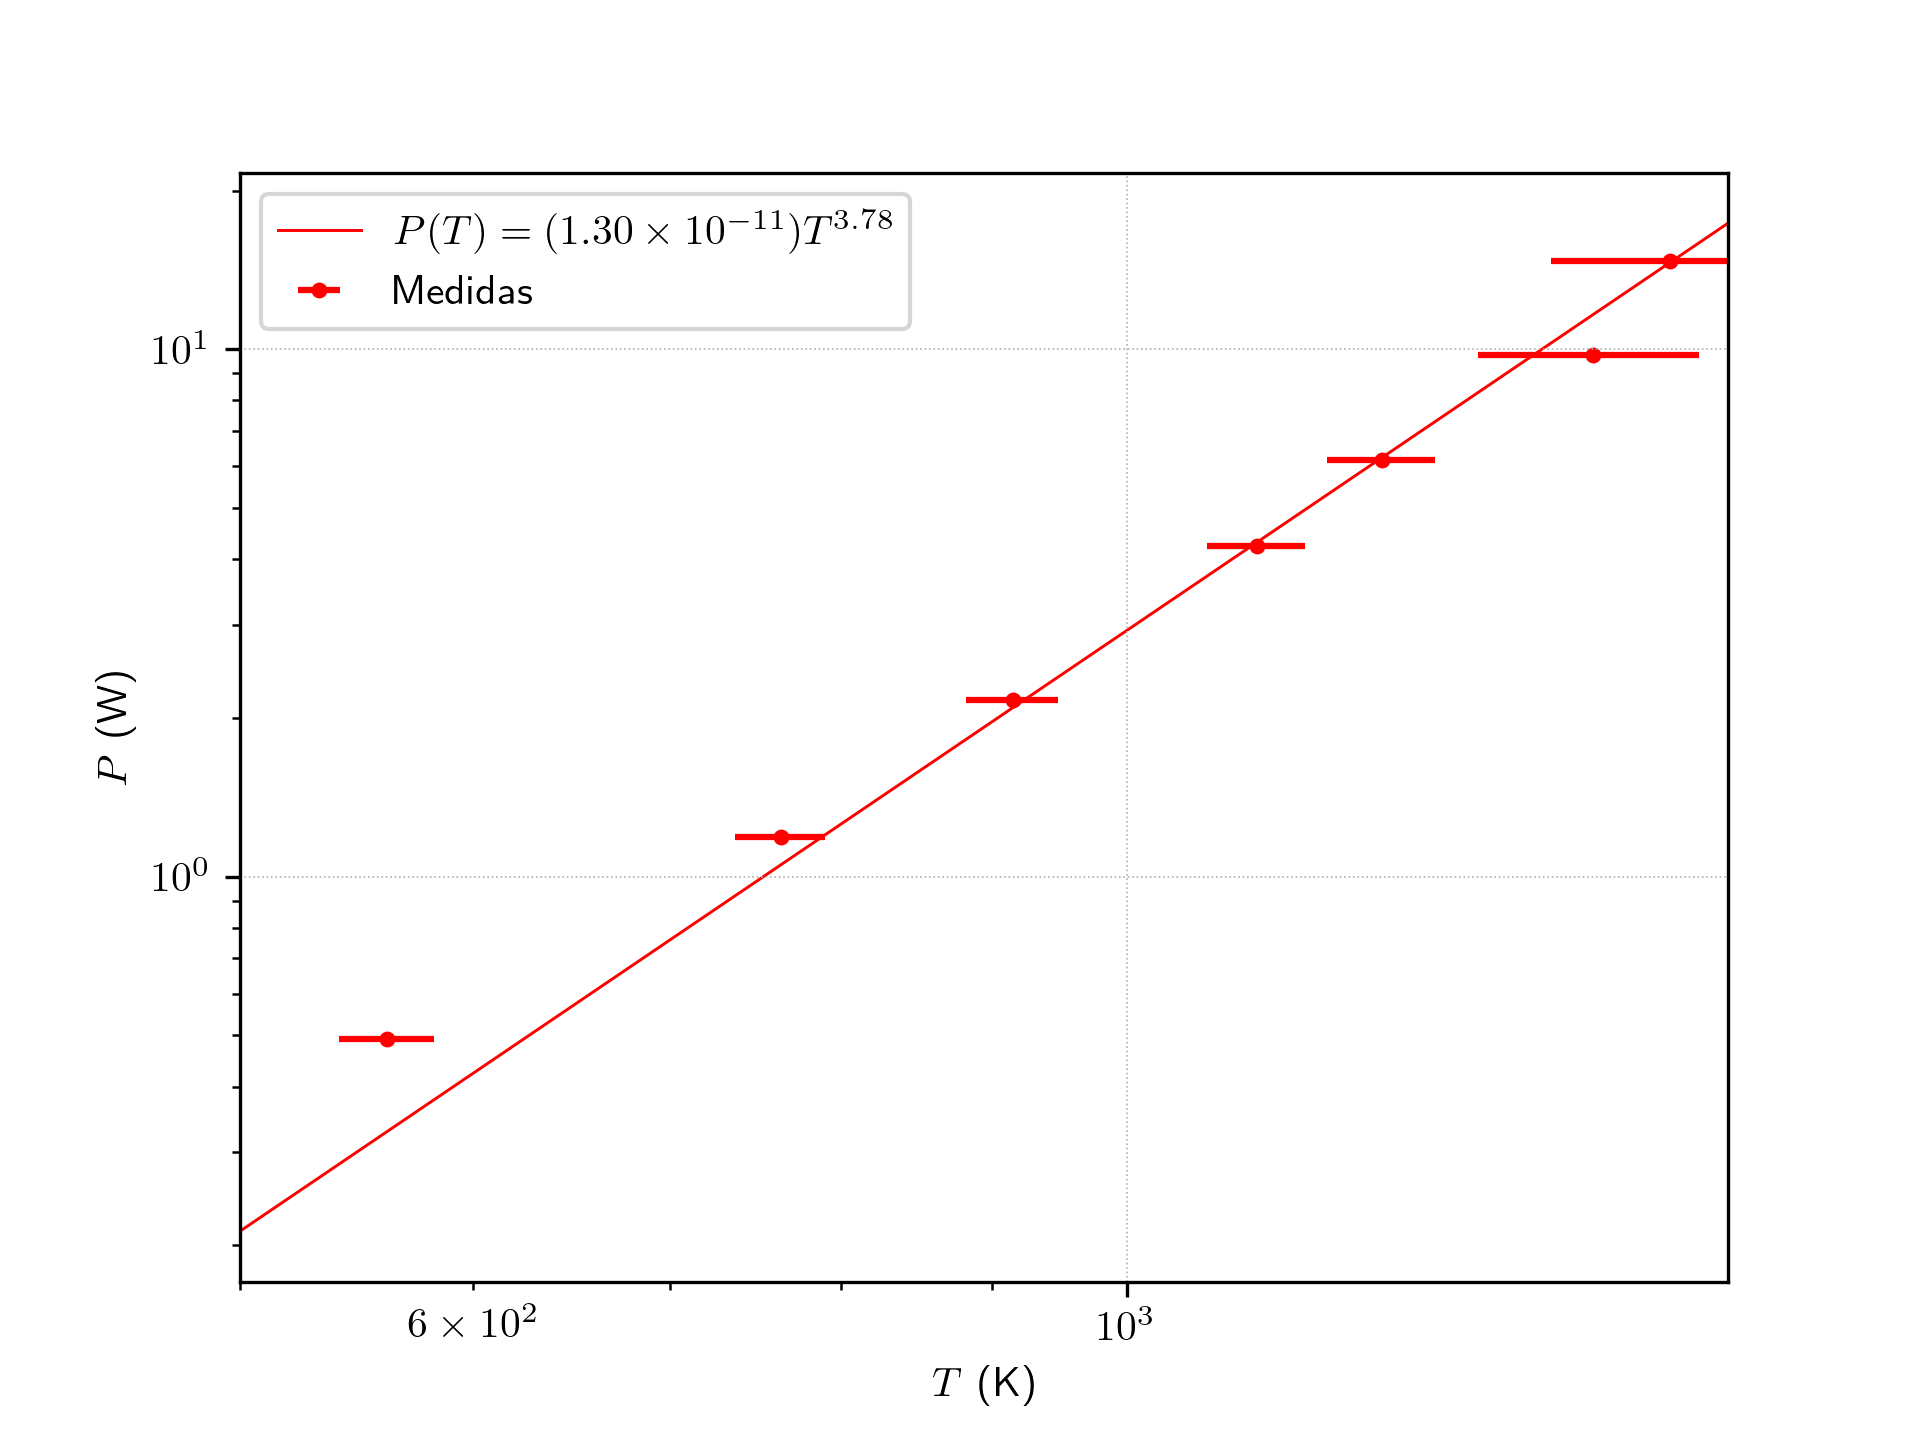
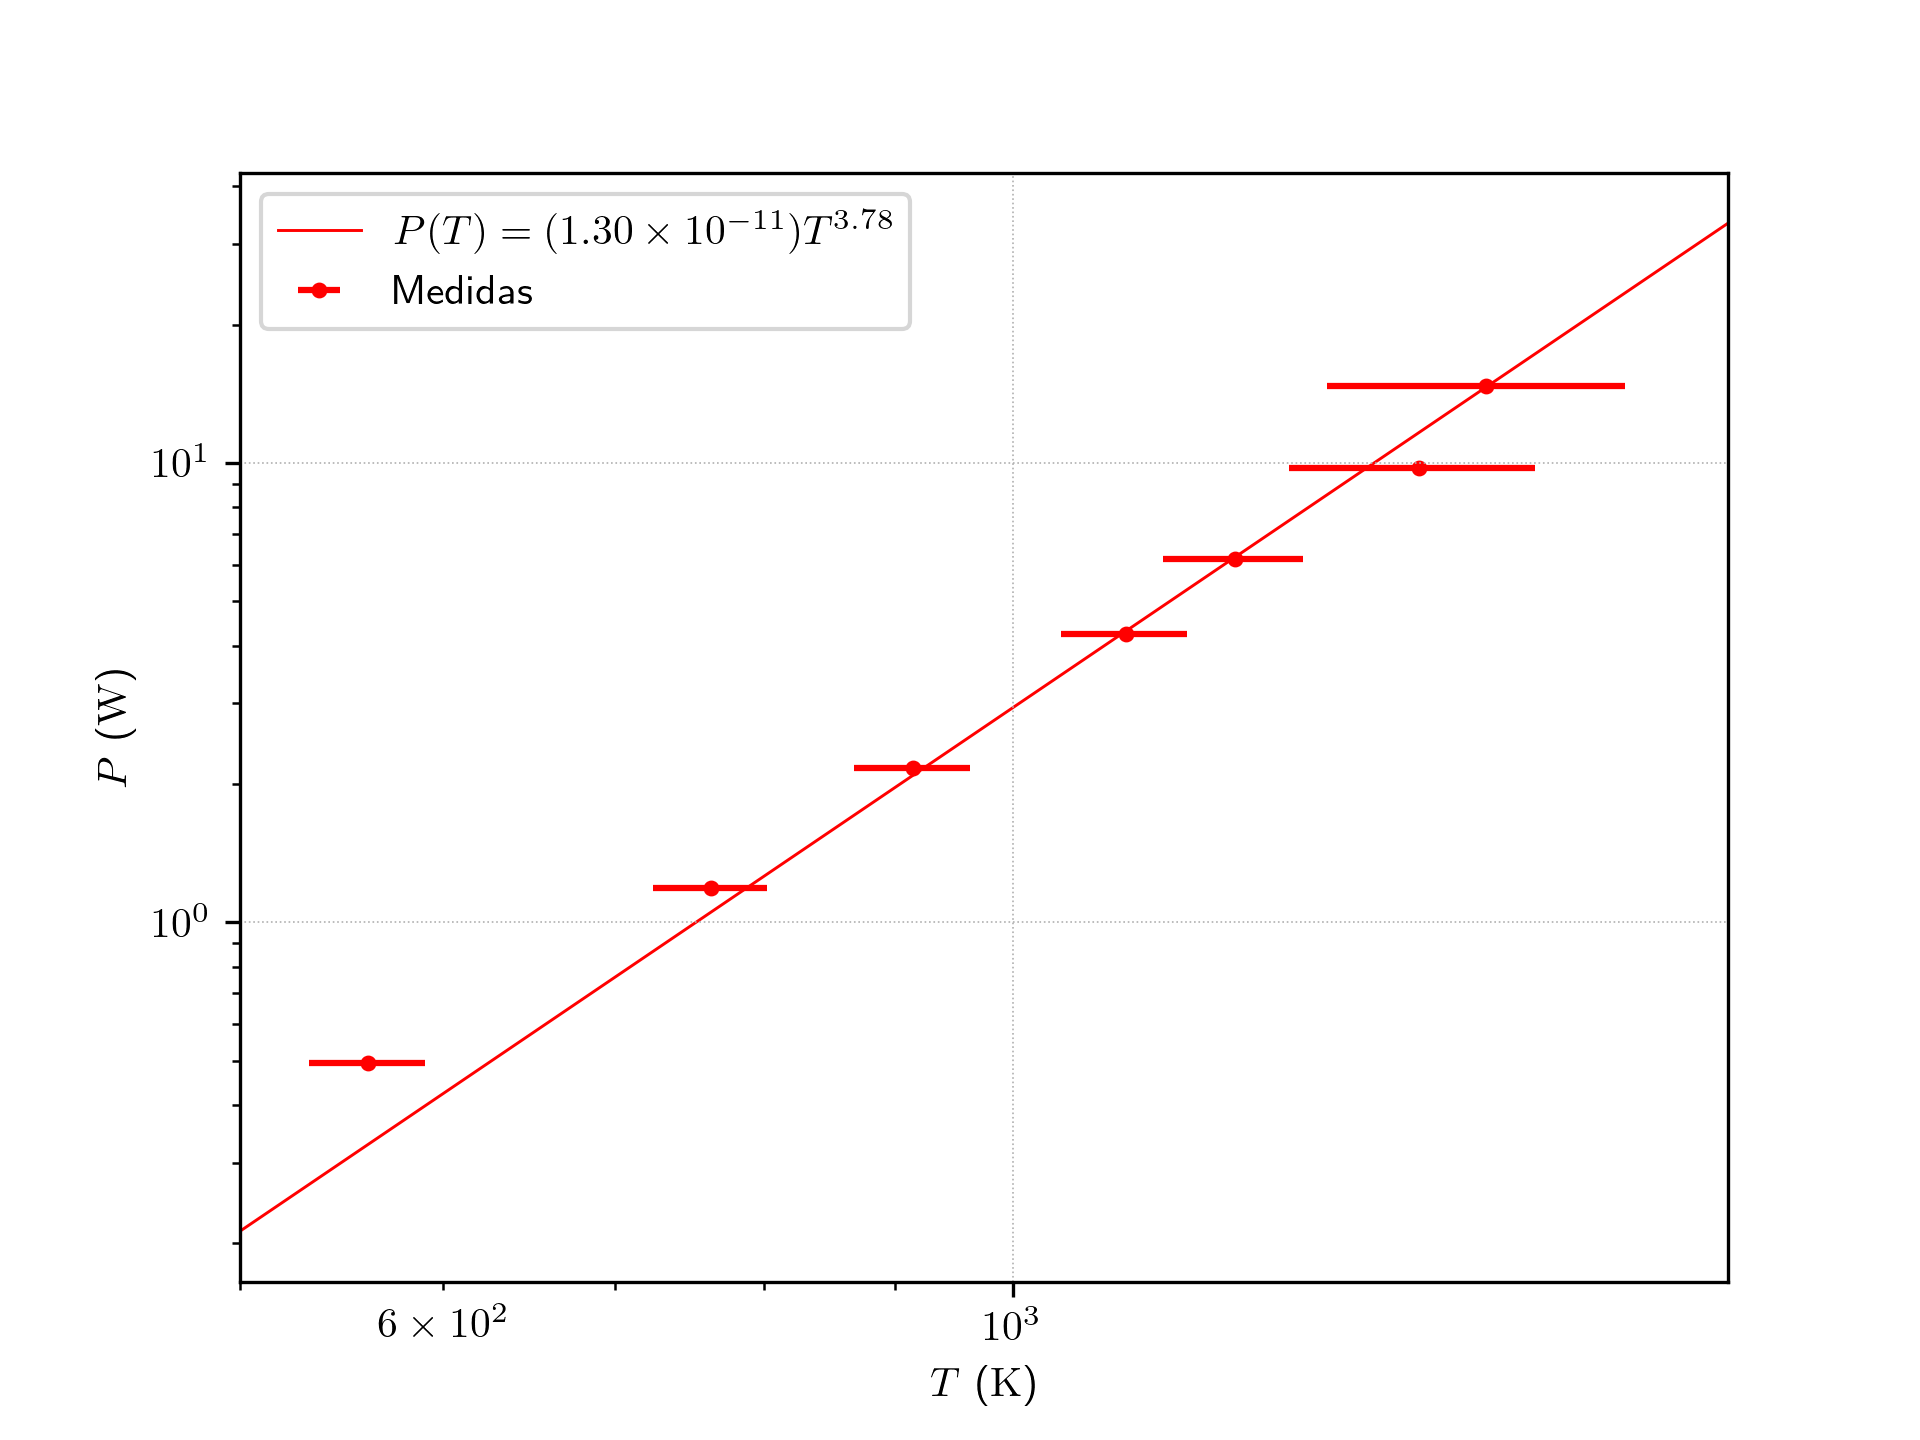
Using siunix for units in axes labels

diff --git a/radiance.py b/radiance.py
@@ -7,10 +7,11 @@ import matplotlib.pyplot as plt
 
 plt.rcParams.update({
     'text.usetex': True,
+    'text.latex.preamble': r'\usepackage{siunitx}'
 })
 
 l_a_ratio = 1.47e7
-delta_l_a_ratio = 0.06e7
+delta_l_a_ratio = 0.09e7
 
 
 # for temperatures between 90 and 750
@@ -100,16 +101,18 @@ def sci_to_latex(float):
 # ploting sensor voltage vs lamp temperatures
 fig_radiance, ax_radiance = plt.subplots()
 
-ax_radiance.set(xlabel=r'$T$ (K)',
-                ylabel=r'$U_{p}$ (V)',
-                xlim=(500, 1600),
+xlim = (500, 1900)
+
+ax_radiance.set(xlabel=r'$T$ (\si{\kelvin})',
+                ylabel=r'$U_{p}$ (\si{\volt})',
+                xlim=xlim,
                 xscale='log',
                 yscale='log')
 
 ax_radiance.errorbar(lamp_temp, sensor_voltage, xerr=delta_lamp_temp,
-                     fmt='ro', ms=2.8, color='red', label='Medidas', zorder=1)
+                     fmt='ro', ms=2.8, label='Medidas', zorder=1)
 
-temp = np.linspace(500, 1600)
+temp = np.linspace(*xlim)
 
 ax_radiance.plot(temp, coeff * temp ** exponent, linewidth=0.7, color='red',
                  label=rf'$U_p(T) = ({sci_to_latex(coeff)}) T^{{{exponent:.2f}}}$', zorder=1)
@@ -147,14 +150,14 @@ print(f'exponent error = {delta_exponent_2:.2f}')
 # ploting lamp power draw vs lamp temps
 fig_power, ax_power = plt.subplots()
 
-ax_power.set(xlabel=r'$T$ (K)',
-             ylabel=r'$P$ (W)',
-             xlim=(500, 1600),
+ax_power.set(xlabel=r'$T$ (\si{\kelvin})',
+             ylabel=r'$P$ (\si{\watt})',
+             xlim=xlim,
              xscale='log',
              yscale='log')
 
 ax_power.errorbar(lamp_temp, lamp_power, xerr=delta_lamp_temp,
-                  fmt='ro', ms=2.8, color='red', label='Medidas', zorder=1)
+                  fmt='ro', ms=2.8, label='Medidas', zorder=1)
 
 ax_power.plot(temp, coeff_2 * temp ** exponent_2, linewidth=0.7, color='red',
               label=rf'$P(T) = ({sci_to_latex(coeff_2)}) T^{{{exponent_2:.2f}}}$', zorder=1)

diff --git a/resistance.py b/resistance.py
@@ -5,6 +5,7 @@ import matplotlib.pyplot as plt
 
 plt.rcParams.update({
     'text.usetex': True,
+    'text.latex.preamble': r'\usepackage{siunitx}'
 })
 
 resistance_df = pd.read_csv('data/resistance.csv')
@@ -14,15 +15,30 @@ lamp_current = resistance_df.iloc[:, 1].to_numpy()
 
 resistance_reg = linregress(lamp_current, lamp_voltage)
 
-current_fit = np.linspace(0, 50)
 slope = resistance_reg.slope
 intercept = resistance_reg.intercept
-voltage_fit = slope * current_fit + intercept
+rvalue = resistance_reg.rvalue
+
+n = lamp_voltage.size
+
+sum_x_squares = np.sum(lamp_current ** 2)
+
+delta_y = np.sqrt(np.sum((lamp_voltage - slope * lamp_current -
+                  intercept) ** 2) / (n - 2))
+
+delta = n * sum_x_squares - (np.sum(lamp_current)) ** 2
+
+slope_error = delta_y * np.sqrt(sum_x_squares / delta)
+
+print('Regression Results')
+print(f'slope = {slope:.2f}')
+print(f'slope_error = {slope_error:.2f}')
+print(f'correlation = {rvalue}')
 
 fig, ax = plt.subplots()
 
-ax.set(xlabel=r'$I$ (mA)',
-       ylabel=r'$U$ (mV)',
+ax.set(xlabel=r'$I$ (\si{\milli\ampere})',
+       ylabel=r'$U$ (\si{\milli\volt})',
        xlim=(0, 50),
        ylim=(0, 40))
 
@@ -33,10 +49,13 @@ else:
 
 intercept = abs(intercept)
 
+current = np.linspace(0, 50)
+voltage_fit = slope * current + intercept
+
 ax.plot(lamp_current, lamp_voltage, 'ro',
         ms=2.8, label='Medidas', zorder=1)
 
-ax.plot(current_fit, voltage_fit,
+ax.plot(current, voltage_fit,
         linewidth=0.7,
         color='red',
         label=rf'$ U(I) = {slope:.2f}I {sign} {intercept:.2f}$',
